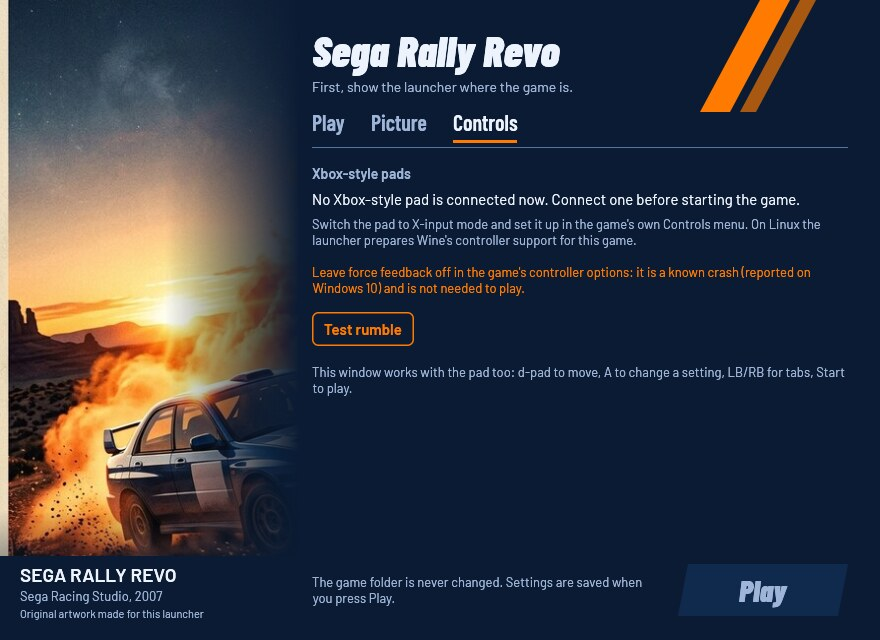
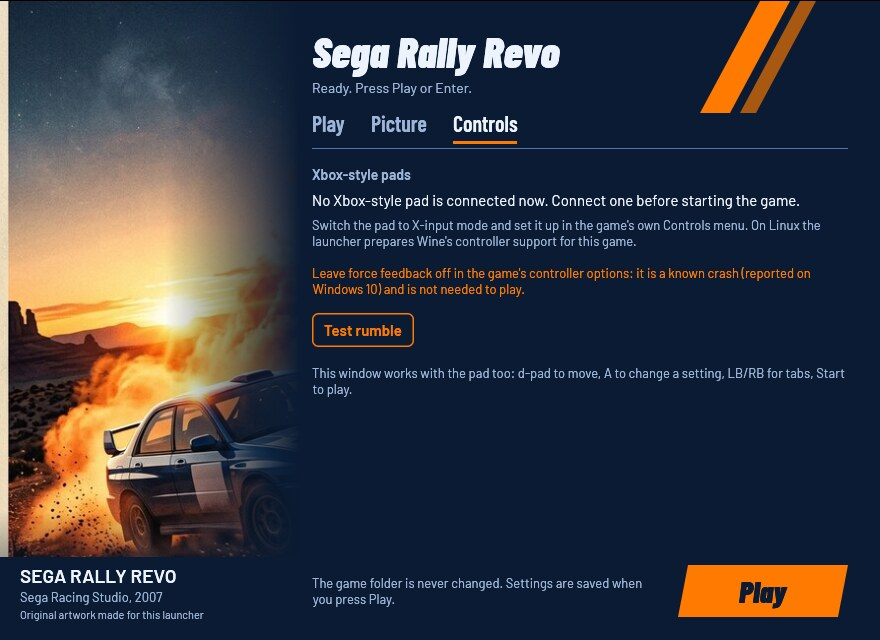
docs: retake the settings-window screenshots
Taken with the owner's game folder through a private prefix (drive D:),
so the Play tab shows the detected v4.0.6.0 editions and every tab shows
the window ready to play (Play enabled) instead of the first-run state.
Private Xvfb :187 at 2560x1440 on the host, Wine 96 DPI, tabs switched
with XTest clicks, cropped to the 880x640 window.

diff --git a/README.md b/README.md
@@ -37,7 +37,7 @@ loading wait is cut out).*
 
 | Play | Picture | Controls |
 | --- | --- | --- |
-| ![The Play tab on a first run: the game folder field, the four looks and the stutter fix](docs/images/launcher-play.jpg) | ![The Picture tab: resolution chips, what the game will run at, quality and vsync](docs/images/launcher-picture.jpg) | ![The Controls tab: pad status, the force-feedback warning and the Test rumble button](docs/images/launcher-controls.jpg) |
+| ![The Play tab with the game folder found (both v4.0.6.0 executables), the four looks and the stutter fix](docs/images/launcher-play.jpg) | ![The Picture tab: resolution chips, what the game will run at, quality and vsync](docs/images/launcher-picture.jpg) | ![The Controls tab: pad status, the force-feedback warning and the Test rumble button](docs/images/launcher-controls.jpg) |
 
 ## What you need
 
